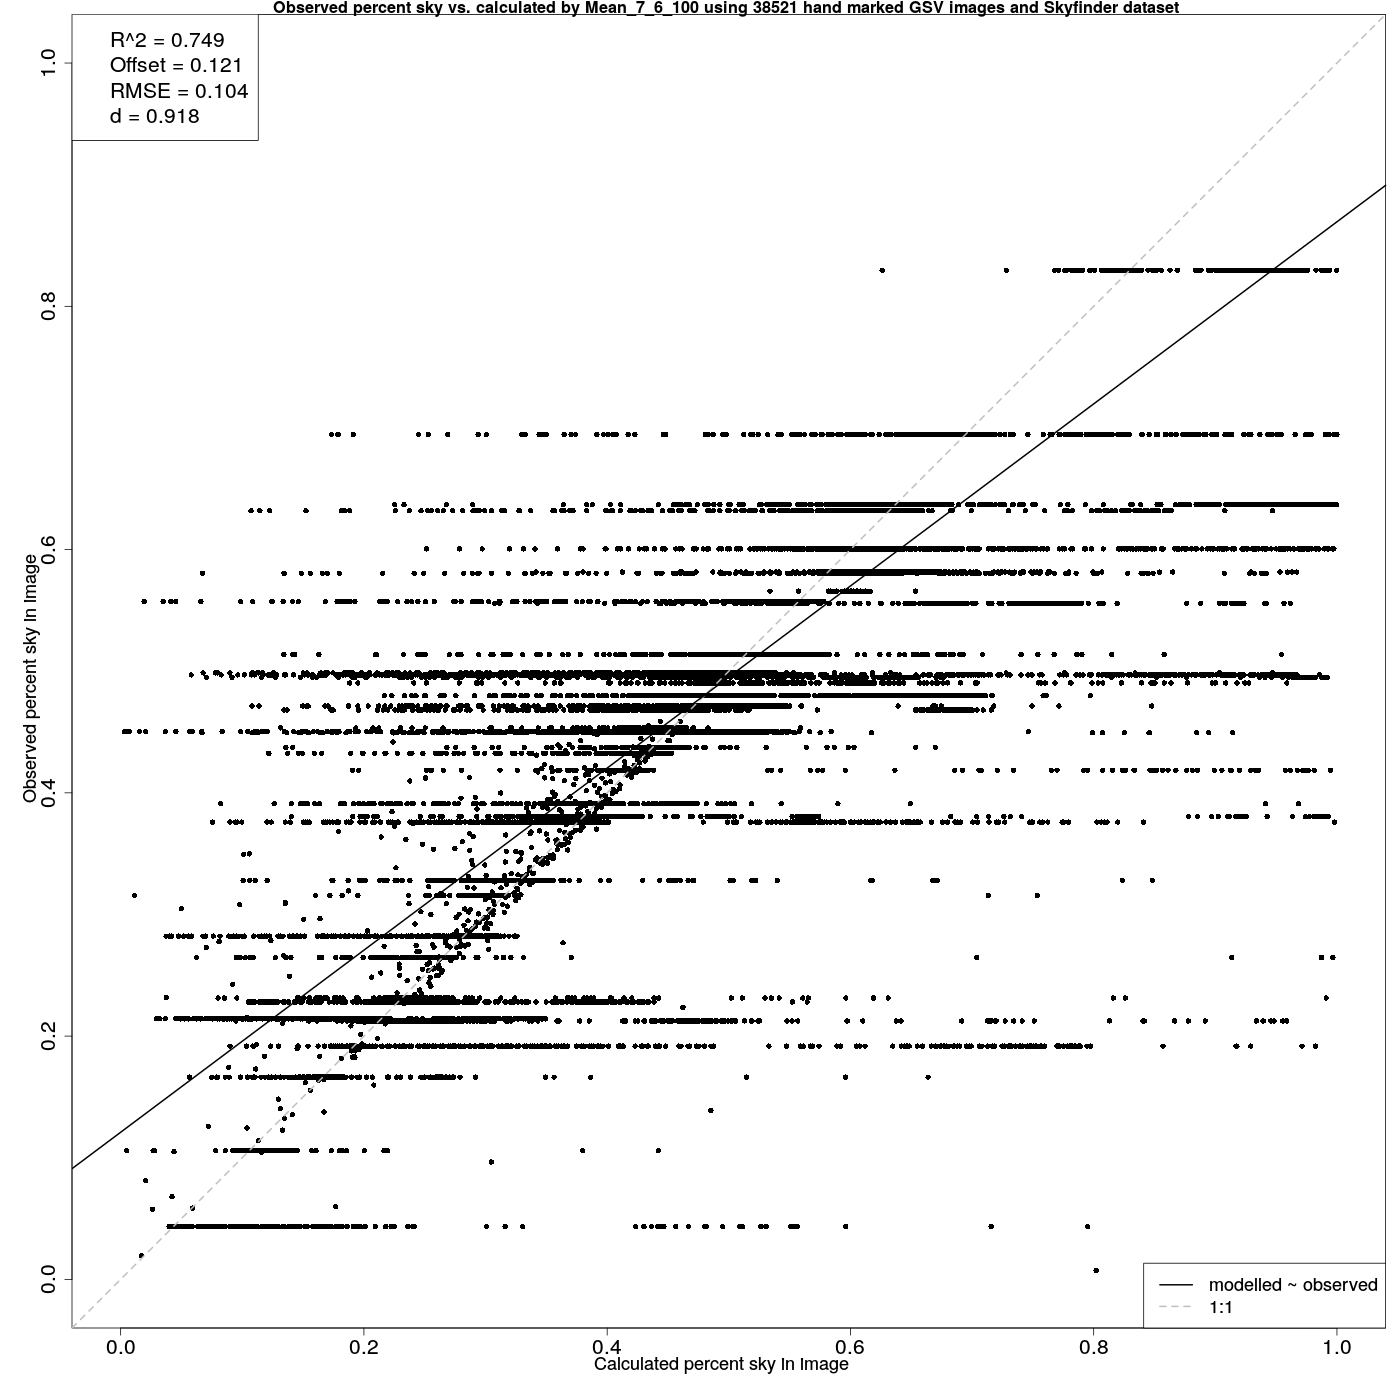
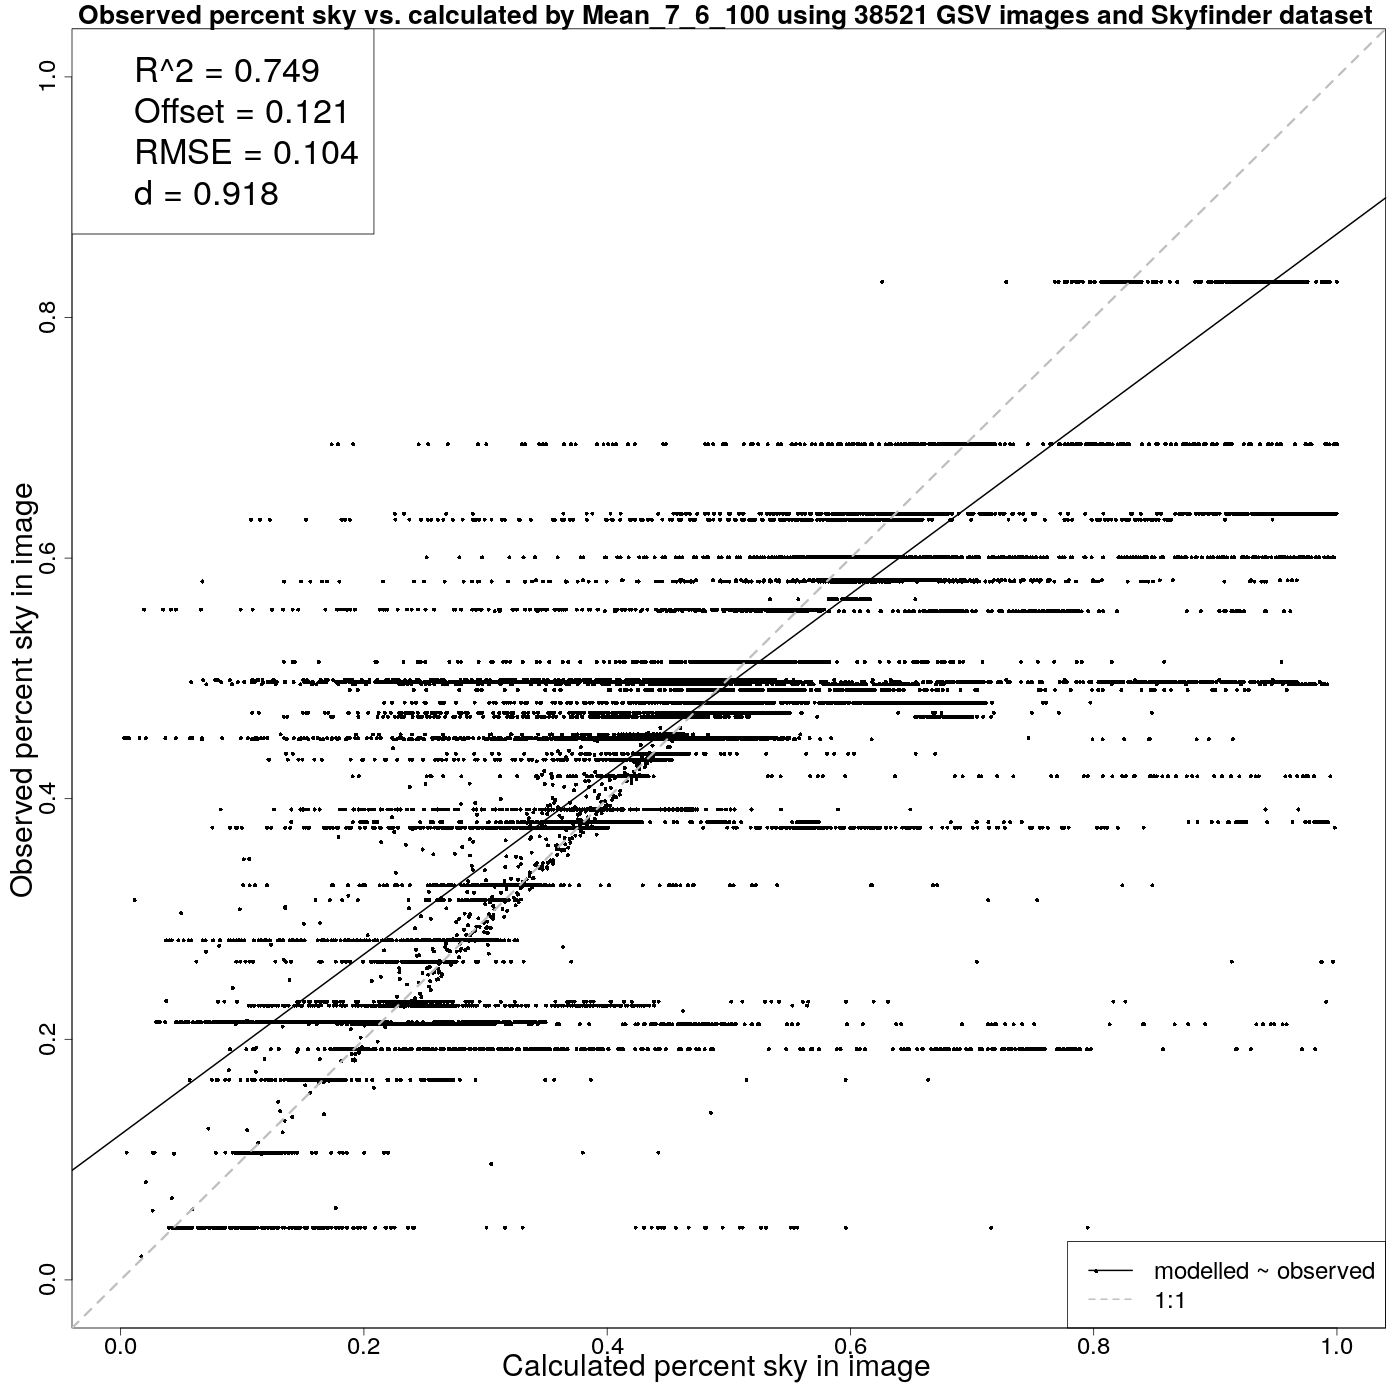
Make figures more readable

diff --git a/UrbanClimateICUC10-SVF.tex b/UrbanClimateICUC10-SVF.tex
@@ -328,9 +328,9 @@ d)\includegraphics[scale=0.20]{Images/Cloudy/{panorama-ESuX4xmQ_fDc50NK6CnfZQ-1_
 
 \begin{figure}
 \centering    
-a)\includegraphics[scale=0.20]{Images/FloodfillInput.png}
-b)\includegraphics[scale=0.20]{Images/FloodfillMiddle.png}
-c)\includegraphics[scale=0.20]{Images/FloodfillOutput.png}
+a)\includegraphics[scale=0.25]{Images/FloodfillInput.png}
+b)\includegraphics[scale=0.25]{Images/FloodfillMiddle.png}
+c)\includegraphics[scale=0.25]{Images/FloodfillOutput.png}
 \caption{\bf   Results of Sobel/flood-fill combination, showing a) original image, b) intermediate Sobel image, and c) final marked sky image.}    
  \label{fig:sobelflood}  
 \end{figure} 
@@ -351,10 +351,10 @@ The entire dataset of 38,522 images was split into two datasets of 75\% training
 
 \begin{figure}
 \centering
-a)\includegraphics[trim = 0mm 0mm 0mm 0mm,clip,scale=0.12]{Images/13-0_Mean_7_8_300_tiles.png}
-b)\includegraphics[trim = 0mm 0mm 0mm 0mm,clip,scale=0.12]{Images/13-3_Mean_7_6_100_tiles.png}
-c)\includegraphics[trim = 0mm 0mm 0mm 0mm,clip,scale=0.12]{Images/13-5_K-mean_6_tiles.png}
-d)\includegraphics[trim = 0mm 0mm 0mm 0mm,clip,scale=0.12]{Images/13-9_Sobel_70_tiles.png}
+a)\includegraphics[trim = 0mm 0mm 0mm 0mm,clip,scale=0.14]{Images/13-0_Mean_7_8_300_tiles.png}
+b)\includegraphics[trim = 0mm 0mm 0mm 0mm,clip,scale=0.14]{Images/13-3_Mean_7_6_100_tiles.png}
+c)\includegraphics[trim = 0mm 0mm 0mm 0mm,clip,scale=0.14]{Images/13-5_K-mean_6_tiles.png}
+d)\includegraphics[trim = 0mm 0mm 0mm 0mm,clip,scale=0.14]{Images/13-9_Sobel_70_tiles.png}
 \caption{\textbf{Selected imagery used for NN training for classifications 
 a) Mean\_7\_8\_300, b) Mean\_7\_6\_100, c) K-mean\_6, d) Sobel\_70.}}
 \label{fig:classImages}
@@ -400,10 +400,10 @@ Sobel\_95 &0&0.421&0.045&0.225&0.0&0.419 \\
 
 \begin{figure}
 \centering
-a)\includegraphics[scale=0.12]{Images/ErrorPlotsCombinedIndivMean_7_6_100.png}
-b)\includegraphics[scale=0.12]{Images/ErrorPlotsCombinedIndivMean_7_8_300.png}
-c)\includegraphics[scale=0.12]{Images/ErrorPlotsCombinedIndivKmean6.png}
-d)\includegraphics[scale=0.12]{Images/ErrorPlotsCombinedIndivSobel70.png}
+a)\includegraphics[scale=0.15]{Images/ErrorPlotsCombinedIndivMean_7_6_100.png}
+b)\includegraphics[scale=0.15]{Images/ErrorPlotsCombinedIndivMean_7_8_300.png}
+c)\includegraphics[scale=0.15]{Images/ErrorPlotsCombinedIndivKmean6.png}
+d)\includegraphics[scale=0.15]{Images/ErrorPlotsCombinedIndivSobel70.png}
 \caption{\textbf{Observed vs. calculated sky pixels using the a) Mean\_7\_6\_100, b) Mean\_7\_8\_300, c) K-mean\_6, and d) Sobel\_70 techniques on the 38,521 image combined dataset.} }
 \label{fig:errorallcombined}
 \end{figure}
